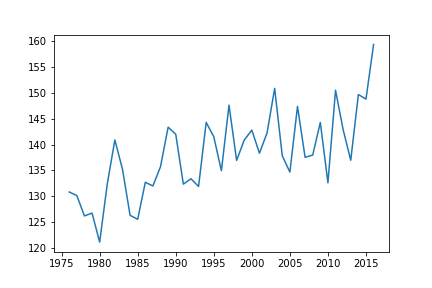
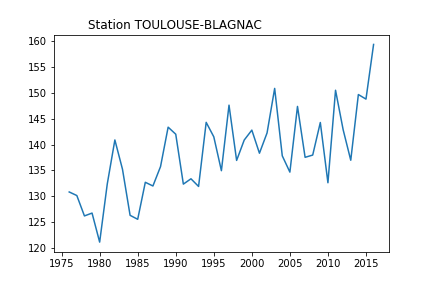
Affichage graphe

Changed region(s): [[0.2106, 0.0625, 0.6019, 0.125]]

diff --git a/appliMeteo/Affichage_graphique.py b/appliMeteo/Affichage_graphique.py
@@ -10,10 +10,12 @@ import matplotlib.pyplot as plt
 
 from extraction_bdd import *
 
-def genere_graphe(date,tp,nom='temperature.png'):
+def genere_graphe(date,tp,nom_station,nom_sauv='temperature.png'):
     if len(date) != len(tp):
         return False;
     else:
+
+        id_station,nom,lat,lon,alt = get_station()
         fig, ax = plt.subplots()
                 
         datemin = min(date)
@@ -30,17 +32,18 @@ def genere_graphe(date,tp,nom='temperature.png'):
         tpmin = tpmin - 0.05*deltatp
         tpmax = tpmax + 0.05*deltatp
         ax.set_ylim(tpmin, tpmax)
-        
+        plt.title('Station '+nom_station)
         plt.plot(date,tp)
-        plt.savefig('client/graphes/'+nom)
+        
+        plt.savefig('client/graphes/'+nom_sauv)
         return True
 
 def genere_graphe_id(i):
     id_stat = i
     data=get_data(id_stat)
     date,tp = moyenne_annee(data[0],data[1],data[2])
-    genere_graphe(date,tp)
+    genere_graphe(date,tp,data[3])
 
 
-
+genere_graphe_id(33)
 

diff --git a/appliMeteo/extraction_bdd.py b/appliMeteo/extraction_bdd.py
@@ -17,13 +17,13 @@ def get_data(id_station):
     q_tp=[]
     
     c.execute("""SELECT * FROM temperatures ORDER BY date""")
-    for line in c.execute("""SELECT date,tp,q_tp FROM temperatures WHERE id={}""".format(id_station)):
+    for line in c.execute("""SELECT date,tp,q_tp,nom FROM temperatures JOIN stations_meteo ON temperatures.id = stations_meteo.id WHERE temperatures.id={}""".format(id_station)):
         date.append(line[0])
         tp.append(line[1])
         q_tp.append(line[2])
-    
+        nom = line[3]
     conn.close()
-    return date,tp,q_tp
+    return date,tp,q_tp,nom
     
 def get_station():
     conn = sqlite3.connect('base_temperature.sqlite') 
